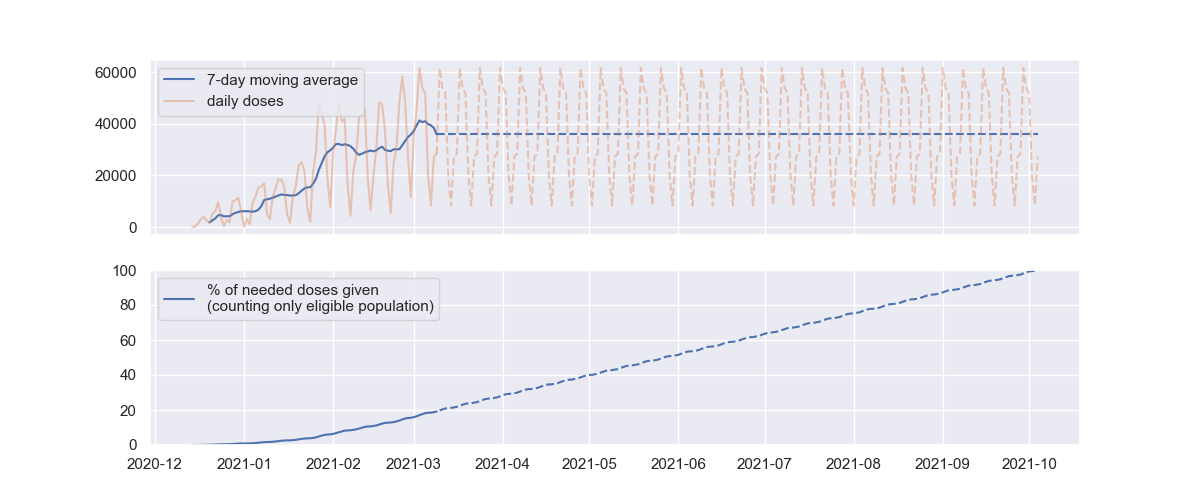
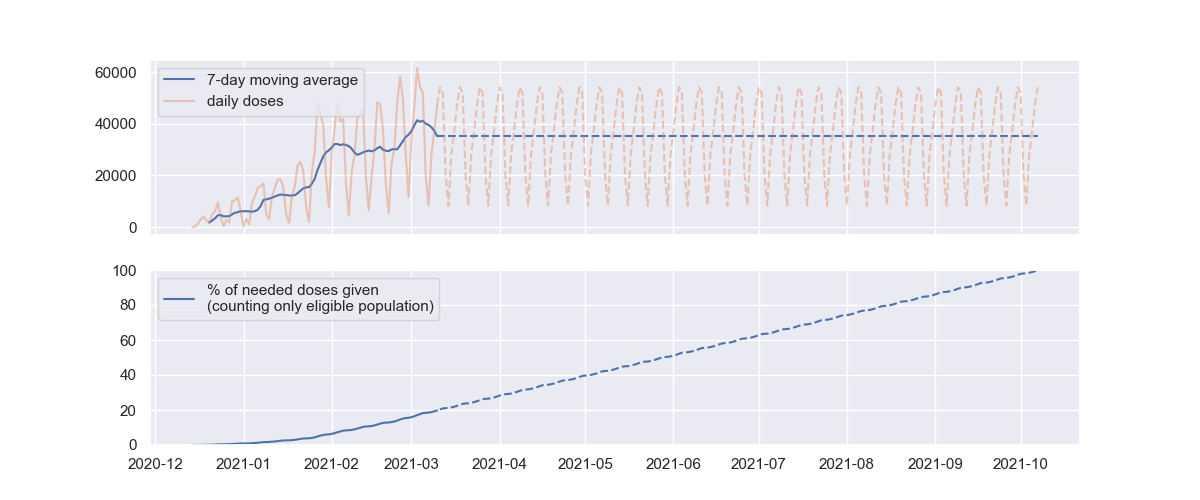
2021-03-11

diff --git a/README.md b/README.md
@@ -10,10 +10,10 @@ Raw data was obtained from https://www.dhs.wisconsin.gov/covid-19/vaccine-data.h
 
 ```
 $ python trax.py
-Data up through 2021-03-09, recent data is usually corrected to be higher
-35926 average doses per day over past 7 days (-3438 compared to 2 weeks ago)
-39.2 weeks (2021-12-08) for EVERY PERSON to get 2 doses
-30.0 weeks (2021-10-04) for all eligible people (over 16 years old) to get 2 doses
+Data up through 2021-03-10, recent data is usually corrected to be higher
+35307 average doses per day over past 7 days (-6103 compared to 2 weeks ago)
+39.7 weeks (2021-12-12) for EVERY PERSON to get 2 doses
+30.3 weeks (2021-10-07) for all eligible people (over 16 years old) to get 2 doses
 ```
 
 # Charts
